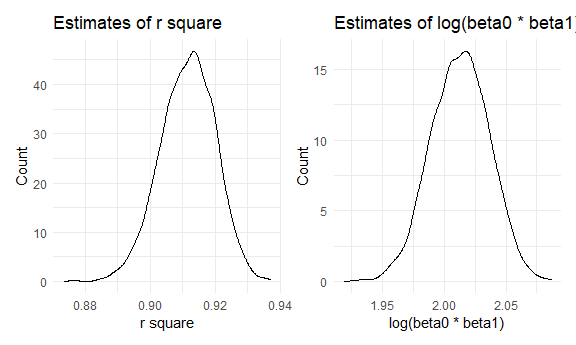
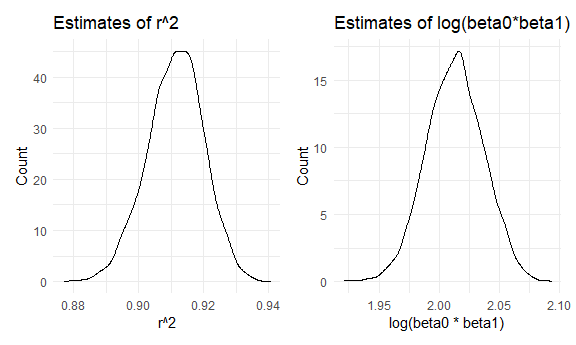
Finish homework.

diff --git a/p8105_hw6_xh2470.md b/p8105_hw6_xh2470.md
@@ -1,5 +1,6 @@
 p8105\_hw6\_xh2470
 ================
+Xueqing Huang(xh2470)
 
 ``` r
 library(tidyverse)
@@ -40,6 +41,8 @@ library(mgcv)
     ## This is mgcv 1.8-38. For overview type 'help("mgcv-package")'.
 
 ``` r
+set.seed(1)
+
 knitr::opts_chunk$set(
   echo = TRUE,
   warning = FALSE,
@@ -226,16 +229,16 @@ r_square
     ## # A tibble: 5,000 x 2
     ##    strap_number r.squared
     ##    <chr>            <dbl>
-    ##  1 0001             0.909
-    ##  2 0002             0.914
-    ##  3 0003             0.922
-    ##  4 0004             0.915
-    ##  5 0005             0.917
-    ##  6 0006             0.915
-    ##  7 0007             0.913
-    ##  8 0008             0.921
-    ##  9 0009             0.913
-    ## 10 0010             0.900
+    ##  1 0001             0.898
+    ##  2 0002             0.913
+    ##  3 0003             0.902
+    ##  4 0004             0.904
+    ##  5 0005             0.920
+    ##  6 0006             0.904
+    ##  7 0007             0.917
+    ##  8 0008             0.919
+    ##  9 0009             0.915
+    ## 10 0010             0.906
     ## # ... with 4,990 more rows
 
 ``` r
@@ -258,16 +261,16 @@ intercept
     ## # A tibble: 5,000 x 4
     ##    strap_number beta0_hat beta1_hat   log
     ##    <chr>            <dbl>     <dbl> <dbl>
-    ##  1 0001              7.33      1.03  2.02
-    ##  2 0002              7.29      1.03  2.01
-    ##  3 0003              7.20      1.04  2.01
-    ##  4 0004              7.17      1.03  2.00
-    ##  5 0005              6.98      1.04  1.98
-    ##  6 0006              7.14      1.03  1.99
-    ##  7 0007              7.16      1.04  2.01
-    ##  8 0008              7.26      1.05  2.03
-    ##  9 0009              7.01      1.05  2.00
-    ## 10 0010              7.36      1.03  2.03
+    ##  1 0001              7.54      1.02  2.04
+    ##  2 0002              6.86      1.06  1.99
+    ##  3 0003              7.55      1.02  2.04
+    ##  4 0004              7.24      1.03  2.01
+    ##  5 0005              6.89      1.06  1.99
+    ##  6 0006              7.15      1.06  2.02
+    ##  7 0007              7.20      1.04  2.02
+    ##  8 0008              7.26      1.04  2.02
+    ##  9 0009              7.19      1.05  2.03
+    ## 10 0010              7.34      1.04  2.03
     ## # ... with 4,990 more rows
 
 #### Plot the distribution of estimates.
@@ -278,8 +281,8 @@ r_square %>%
   ggplot(aes(x = r.squared)) +
   geom_density() + 
   labs(
-    title = "Estimates of r square",
-    x = "r square",
+    title = "Estimates of r^2",
+    x = "r^2",
     y = "Count"
   )
 
@@ -288,7 +291,7 @@ intercept %>%
   ggplot(aes(x = log)) +
   geom_density() + 
   labs(
-    title = "Estimates of log(beta0 * beta1)",
+    title = "Estimates of log(beta0*beta1)",
     x = "log(beta0 * beta1)",
     y = "Count"
   )  
@@ -298,9 +301,9 @@ r_square_plot + intercept_plot
 
 <img src="p8105_hw6_xh2470_files/figure-gfm/unnamed-chunk-7-1.png" width="90%" />
 
-From the plots, we can see that the distribution of both estimates r
-square and log(beta0\*beta1) are approximately normally distributed. The
-closer r square is to 1, the better the model fitting effect is.
+From the plots, we can see that the distribution of both estimates r^2
+and log(beta0\*beta1) are approximately normally distributed. The closer
+r^2 is to 1, the better the model fitting effect is.
 
 #### Provide 95% confidence interval for the estimates.
 
@@ -334,7 +337,7 @@ intercept_ci
     ##      <dbl>    <dbl>
     ## 1     1.97     2.06
 
-The lower limit and upper limit of 95% confidence interval for r square
-is **0.894** and **0.927**, respectively. The lower limit and upper
-limit of 95% confidence interval for log(beta0 \* beta1) is **1.97** and
+The lower limit and upper limit of 95% confidence interval for r^2 is
+**0.894** and **0.927**, respectively. The lower limit and upper limit
+of 95% confidence interval for log(beta0 \* beta1) is **1.97** and
 **2.06**, respectively.
